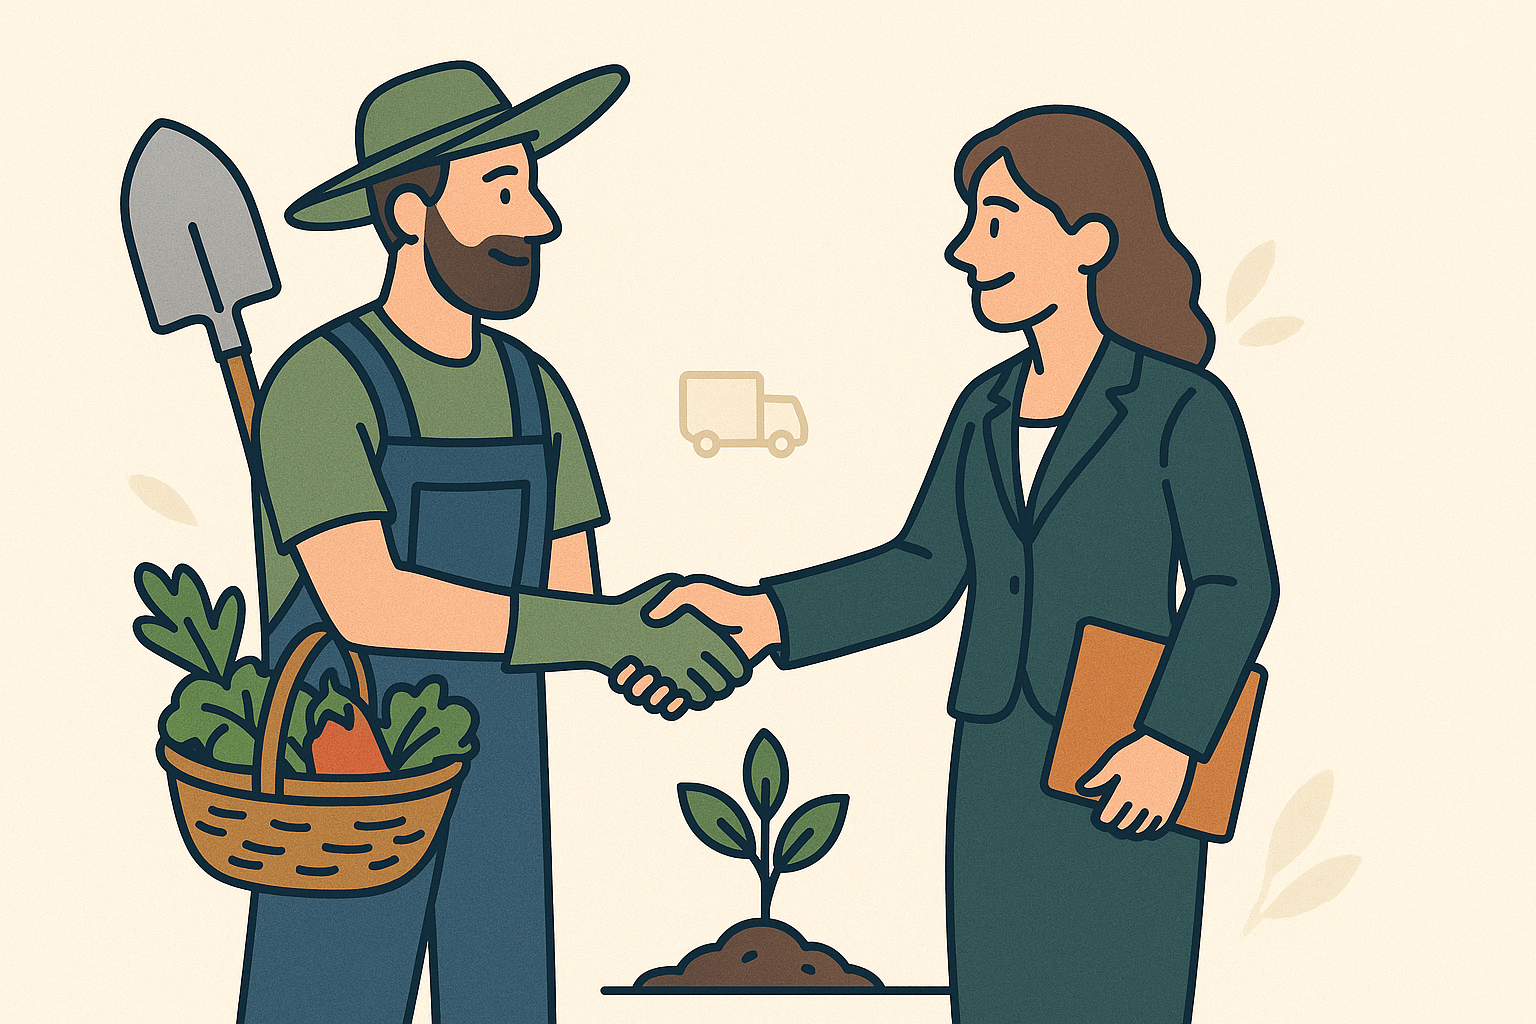
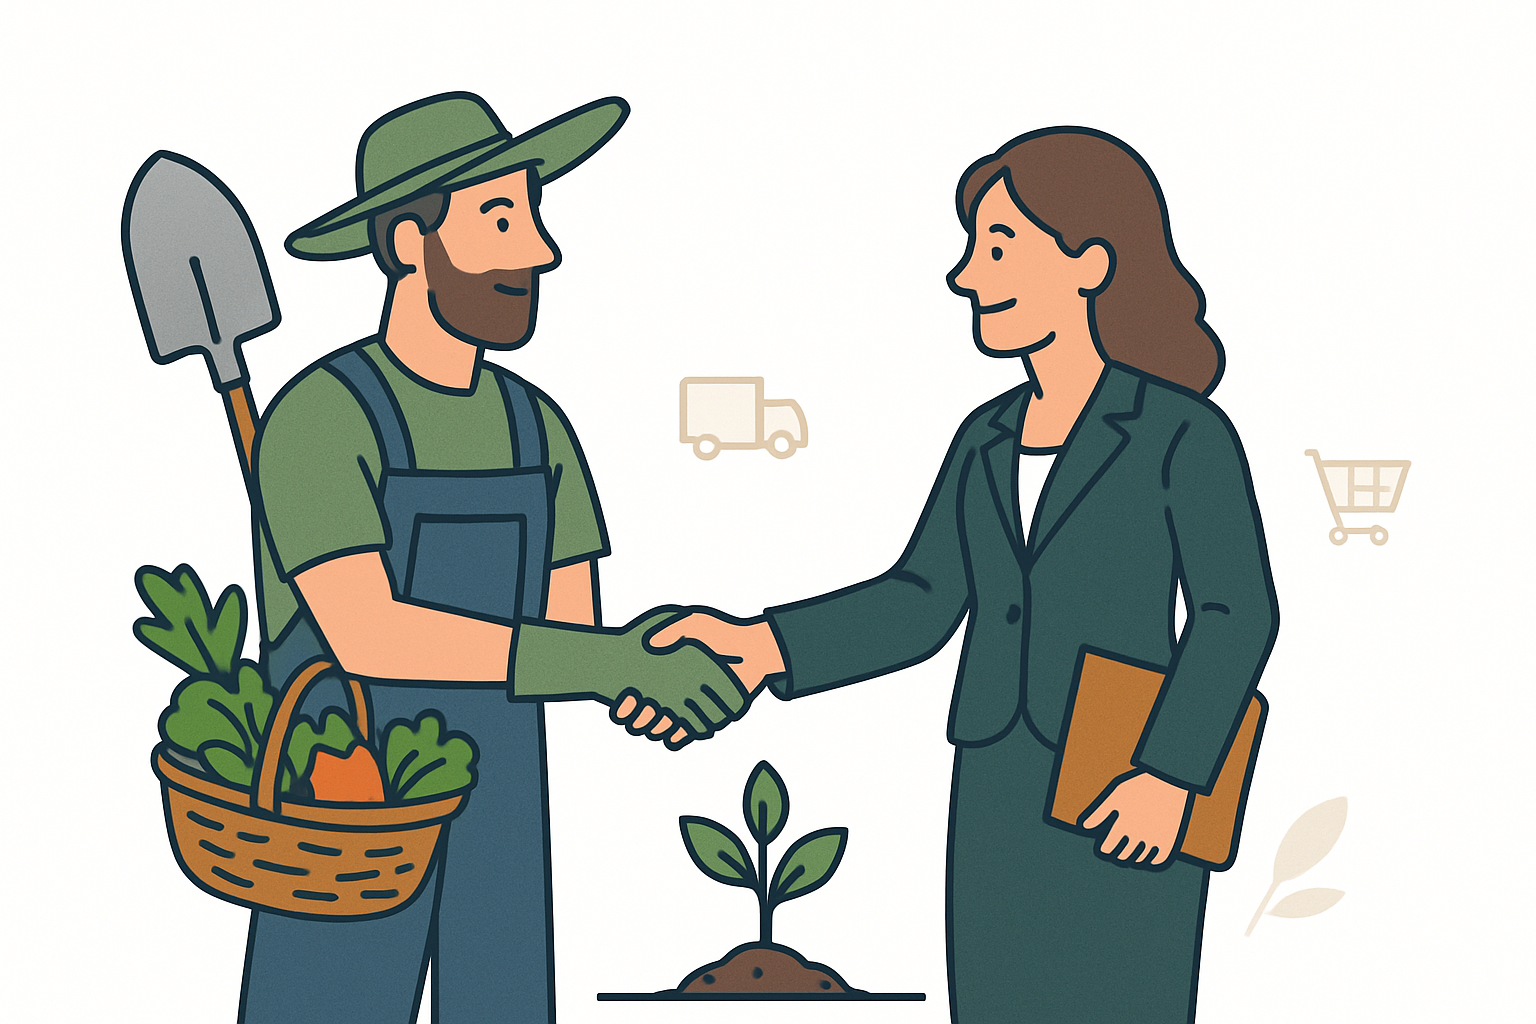
refactor: change the login image styling for better ui

diff --git a/src/assets/styles/main.css b/src/assets/styles/main.css
@@ -17,11 +17,7 @@ body {
   font-size: 14px;
   line-height: 1.6;
   font-weight: 400;
-  font-family:
-    open sans,
-    Helvetica,
-    Arial,
-    sans-serif;
+  font-family: open sans, Helvetica, Arial, sans-serif;
 }
 .ant-layout.ant-layout-has-sider {
   flex-direction: row;
@@ -810,8 +806,7 @@ ul.ant-menu.ant-menu-root.ant-menu-inline.ant-menu-light.left-nav
 }
 
 .shadow-lg {
-  box-shadow:
-    0 8px 26px -4px hsla(0, 0%, 8%, 0.15),
+  box-shadow: 0 8px 26px -4px hsla(0, 0%, 8%, 0.15),
     0 8px 9px -5px hsla(0, 0%, 8%, 0.06) !important;
 }
 .ant-menu-inline,
@@ -1408,9 +1403,7 @@ span.ismobile {
 .sidebarnav-color button {
   width: 100%;
   margin-right: 10px;
-  box-shadow:
-    0 3px 5px -1px rgb(0 0 0 / 9%),
-    0 2px 3px -1px rgb(0 0 0 / 7%);
+  box-shadow: 0 3px 5px -1px rgb(0 0 0 / 9%), 0 2px 3px -1px rgb(0 0 0 / 7%);
   height: 40px;
 }
 
@@ -1780,7 +1773,6 @@ body {
 }
 
 .layout-default .ant-layout-header {
-  
   display: flex;
 }
 
@@ -1806,7 +1798,6 @@ body {
   display: none;
 }
 .sign-up-header {
-
   border-radius: 12px;
   box-shadow: 0 20px 27px rgb(0 0 0 / 5%);
   background-size: cover;
@@ -2152,7 +2143,8 @@ body {
 }
 .sign-img img {
   width: 100%;
-  max-width: 500px;
+  max-width: 40vw;
+  max-height: 60vh;
   margin: auto;
   display: block;
 }
@@ -2356,11 +2348,7 @@ section.ant-layout.layout-content .ant-layout-content.content-ant {
   margin-bottom: 0;
 }
 .widget-2 .ant-statistic-content {
-  font-family:
-    open sans,
-    Helvetica,
-    Arial,
-    sans-serif;
+  font-family: open sans, Helvetica, Arial, sans-serif;
   font-weight: 600;
   font-size: 20px;
   padding: 12px 16px;
